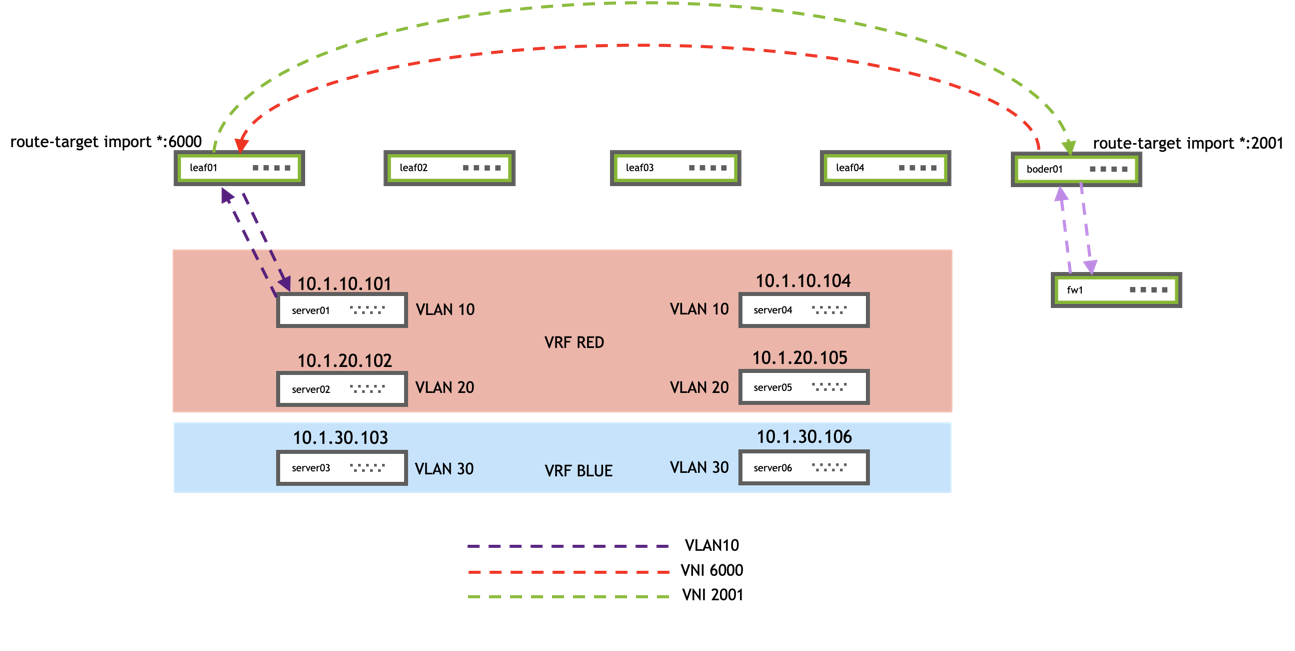
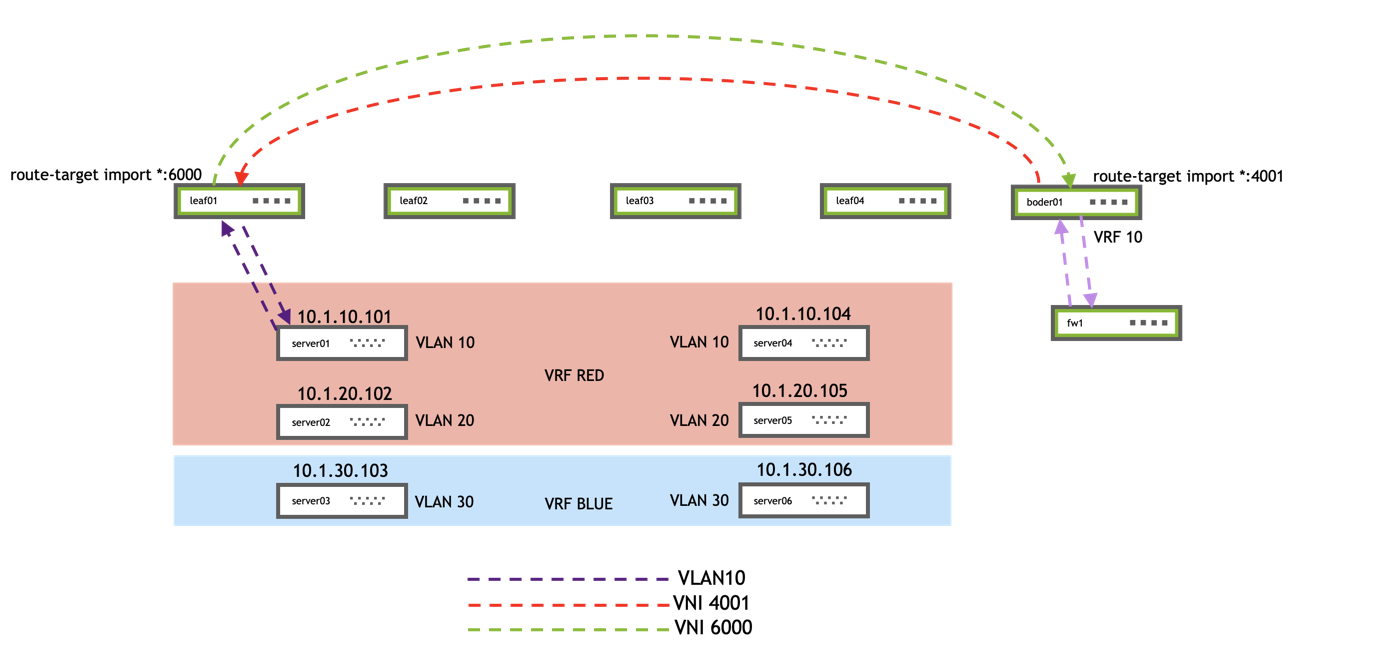
updated flow and edits

diff --git a/content/cumulus-linux-44/Network-Virtualization/Ethernet-Virtual-Private-Network-EVPN/Inter-subnet-Routing.md b/content/cumulus-linux-44/Network-Virtualization/Ethernet-Virtual-Private-Network-EVPN/Inter-subnet-Routing.md
@@ -734,7 +734,7 @@ Downstream VNI (symmetric EVPN route leaking) enables you to assign a VNI from a
 
 To configure a downstream VNI, you configure tenant VRFs as usual; however, to configure the desired route leaking, you define a route target import and, or export statement.
 
-The route target import or export statement is in the format `route-target import|export <asn>:<vni>`; for example, `route-target import 65101:6000`. As an alternative, you can use `route-target import|export *:<vni>`; * uses the ASN configured on the switch.
+The route target import or export statement is in the format `route-target import|export <asn>:<vni>`; for example, `route-target import 65101:6000`. As an alternative, you can use `route-target import|export *:<vni>`; * uses any ASN as a wildcard.
 
 To configure the downsteam VNI, you must manually edit the `/etc/frr/frr.conf` file; NCLU and NVUE commands are not supported.
 
@@ -748,9 +748,9 @@ To configure the downsteam VNI, you must manually edit the `/etc/frr/frr.conf` f
 
 The following example shows a configuration with downstream VNI on leaf01 thru leaf04, and border01. Because the configuration is similar on all the leafs, only leaf01 and border01 configuration files are shown below.
 
-|   Traffic Flow between server01 and server04  |     |
+|   Traffic Flow between VRF RED and VRF 10  |     |
 | ----------------------------------------------| ----|
-| <img width=1300/> {{< img src="/images/cumulus-linux/evpn-downstream-vni.png"  >}}| <br><ol><li>server01 forwards traffic to leaf01.</li><li>leaf01 encapsulates the packet with the VNI in its route-target import statement (6000) and tunnels the traffic over to border01.</li><li> border01 uses the VNI received from leaf01 to forward the packet.</li><li> The reverse traffic from border01 to server01 is encapsulated with the VNI in the route-target import statement on border01 (2001) and tunneled over to leaf01, where routing occurs in VRF RED.</li></ul> |
+| <img width=1300/> {{< img src="/images/cumulus-linux/evpn-downstream-vni.png"  >}}| <br><ol><li>server01 forwards traffic to leaf01.</li><li>leaf01 encapsulates the packet with the VNI in its route-target import statement (6000) and tunnels the traffic over to border01.</li><li> border01 uses the VNI received from leaf01 to forward the packet.</li><li> The reverse traffic from border01 to server01 is encapsulated with the VNI in the route-target import statement on border01 (4001) and tunneled over to leaf01, where routing occurs in VRF RED.</li></ul> |
 
 This is the configuration for the example.
 
@@ -971,7 +971,7 @@ iface vlan336_l3
     vlan-id 336
 auto vxlan99
 iface vxlan99
-    bridge-vlan-vni-map 336=600000
+    bridge-vlan-vni-map 336=6000
     bridge-vids 336
     bridge-learning off
 auto br_default
@@ -1075,7 +1075,7 @@ exit-address-family
 cumulus@border01:~$ sudo cat /etc/frr/frr.conf
 ...
 vrf VRF10
- vni 600000
+ vni 6000
  exit-vrf
 !
 interface bond1
